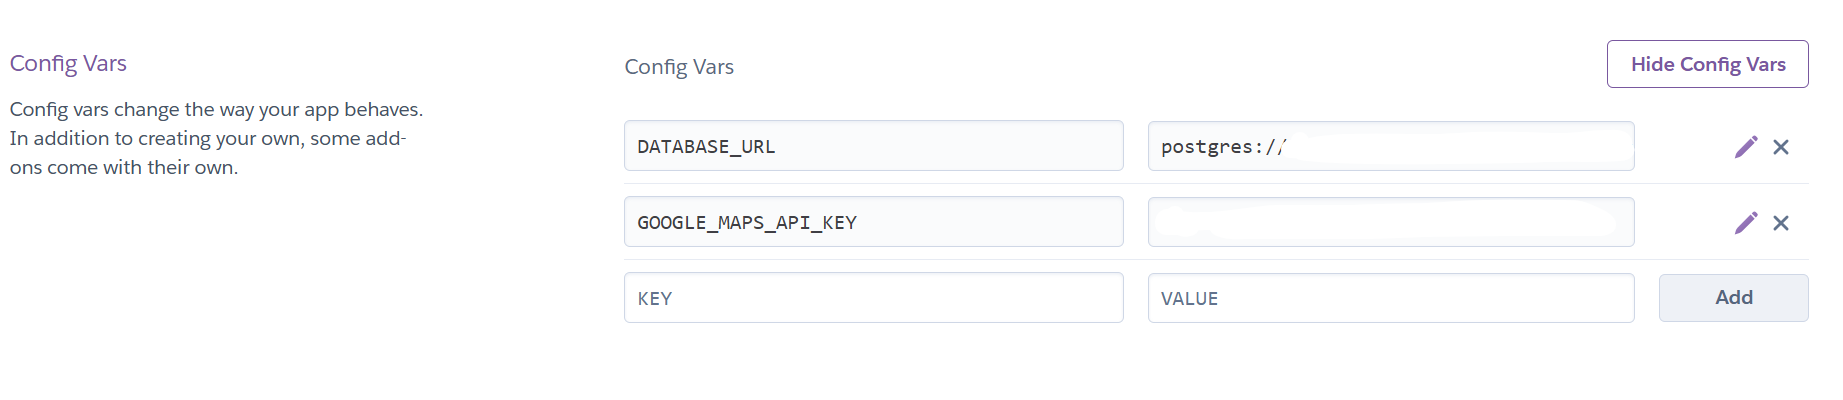
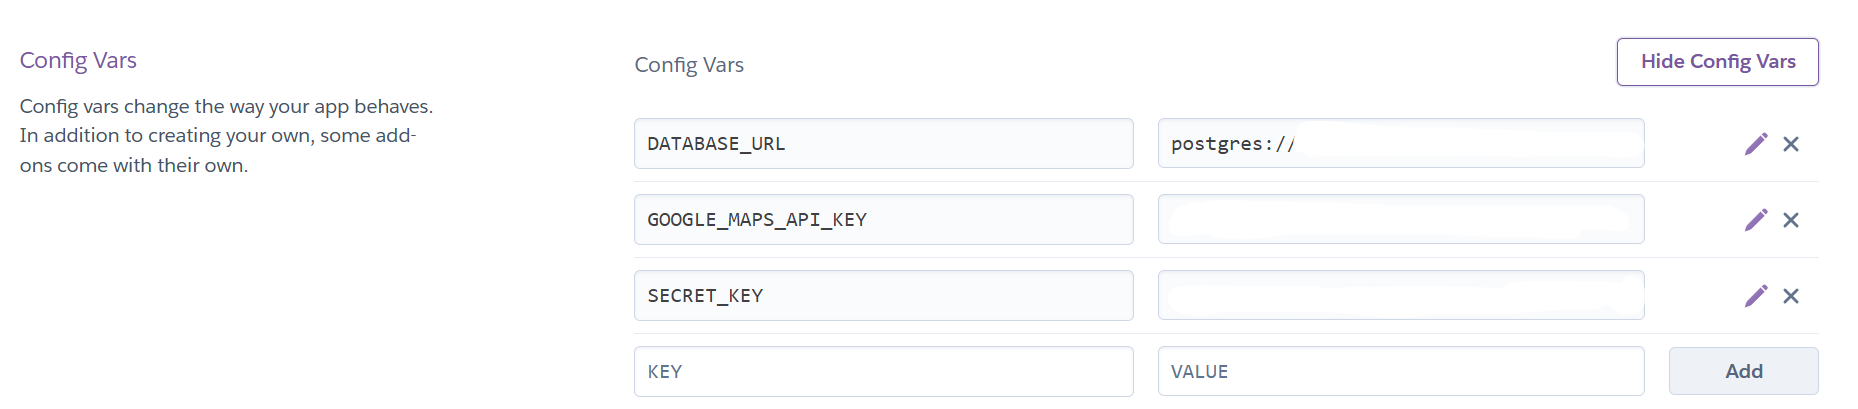
Fix mistakes in the documentation

diff --git a/README.md b/README.md
@@ -55,6 +55,15 @@ The repository can be accessed by this [link](https://github.com/BogdanovaIV/Uni
 
 ### Existing Features
 
+The system allows students to see their study calendar with tasks and marks. Students cannot add or edit any information.
+Tutors have two tabs on their dashboards with three dictionaries:
+1. **Schedule template** - This dictionary is designed for quick filling **Schedule** because schedules have the same data over the terms; it, in turn, allows tutors to save their time.
+2. **Schedule** - This dictionary is designed for storing calendars, including homework and subjects with their order numbers. It can be filled out using the **Schedule template**.
+3. **Student mark** - This dictionary is designed for storing students' marks related to **Schedule object**
+Throughout the entire adding, editing, and deleting stage the system informs the user about an execution status.
+
+![Message](documentation/features/messages.png)
+
 __Navigation Bar__
  
  - This section is on all pages.
@@ -63,6 +72,7 @@ __Navigation Bar__
  - The button has a bold font when it is according to the opened page. 
  - This section has a drop-down menu for small-size devices.
  - The navigation allows the user to easily get targets without having to revert back to the previous page via the ‘back’ button.
+  
   ![Navigation Bar (the user is not authorized)](documentation/features/navigation-bar-user-not-authorized.png) 
   ![Navigation Bar (the user is authorized)](documentation/features/navigation-bar-user-authorized.png) 
   ![Navigation Bar (small-size devices)](documentation/features/navigation-bar-small-size.png) 
@@ -70,46 +80,64 @@ __Navigation Bar__
 __The Footer__
 
  - The footer section includes links to the relevant social media sites for Medocal University. The links will open in a new tab to allow easy navigation for the user.
+  
   ![The Footer](documentation/features/footer.png)
 
  - Links have a hover effect: changing color.
+  
   ![The Footer (hover)](documentation/features/footer-hover.png)
 
 __The Home Page__
 
  - The page contains relevant detailed information about the University.
+  
   ![The Home page](documentation/features/home.png)
 
 __The Contact Page__
 
  - The page contains relevant information about the address, the phone, the e-mail, and the map with the location.
+  
   ![The Contact page](documentation/features/contact.png)
 
 __The Register Page__
 
  - The page registers a new user on the website. The user has to fill out the e-mail which is login, the first name, the last name, and the password. 
+  
   ![The Register page](documentation/features/register.png)
 
 __The Login Page__
 
  - The page allows the user to authenticate on the website. The user has to fill out the login which is the e-mail and the password. 
+  
   ![The Login page](documentation/features/login.png)
 
 __The Dashboard Page (Student)__
 
  - The page displays the weekly schedule containing subjects, homework, and marks of the user. 
  - There are three buttons: Instruction, Update, and Selection. The buttons have tooltips with short descriptions.
+ - **Tutors who have two permissions groups: Tutor and Student can open the student dashboard through the direct link.**
+  
   ![The Dashboard page for students](documentation/features/student-dashboard.png)
+
  - The "Instruction" button displays the instructions on how to work with this page to the user.
+  
   ![The instructions on how to work with this page](documentation/features/student-dashboard-instruction.png)
+
  - The "Update" button updates information on the dashboard.
  - When the user clicks on the "Selection" button, it expands and displays a selection that the user has to fill out.
+  
   ![Expanded selection](documentation/features/student-dashboard-selection.png)
+
  - the "Homework" link has a hover effect
+  
   ![Hover homework](documentation/features/student-dashboard-hover-homework.png)
+
  - When the user clicks on the "Homework" link, it expands and displays the whole text.
+  
   ![Expanded homework](documentation/features/student-dashboard-expand-homework.png)
+
  - The blue oval contains the student's mark.
+  
   ![Student's mark](documentation/features/student-dashboard-mark.png)
 
 __The Dashboard Page (Tutor)__
@@ -117,64 +145,113 @@ __The Dashboard Page (Tutor)__
  - It contains two pages: Schedule and Schedule templates.
  **Schedule templates**
  Schedule templates are used to fill out Schedules by template and save the user time. It contains the weekly schedule template with subjects and three buttons: Instruction, Update, and Selection.
- ![Schedule template](documentation/features/tutor-schedule-template.png)
-- The "Instruction" button displays the instructions on how to work with this page to the user.
+  
+  ![Schedule template](documentation/features/tutor-schedule-template.png)
+
+ - The "Instruction" button displays the instructions on how to work with this page to the user.
+
   ![The instructions on how to work with this page](documentation/features/tutor-schedule-template-instruction.png)
+
  - The "Update" button updates information on the dashboard.
  - When the user clicks on the "Selection" button, it expands and displays a selection that the user has to fill out.
+
   ![Expanded selection](documentation/features/tutor-schedule-template-selection.png)
- - The cells in the table have a hover effect
+
+ - The cells in the table have a hover effect.
+
   ![Hover effect of cells](documentation/features/tutor-schedule-template-hover.png)
- - When the user clicks on an empty cell, the system opens the "Add schedule template" page. The user has to fill in a subject and click the "Save" button to add a new item. If the user changes their decision, they can click on the "Cancel" button not to add anything. 
+
+ - When the user clicks on an empty cell, the system opens the "Add schedule template" page. The user has to fill in a subject and click the "Save" button to add a new item. If the user changes their decision, they can click on the "Cancel" button not to add anything.
+
   ![the "Add schedule template" page](documentation/features/tutor-schedule-template-add-new.png)
+
 - the "Add schedule template" page has the "Instruction" button that, when pressed, opens a instruction window.
+
   ![the "Add schedule template" page - instruction](documentation/features/tutor-schedule-template-add-new-instruction.png)
-- When the user clicks on a filled cell, the system opens the "Edit schedule template" page. The user has to change a subject and click the "Save" button to edit this item. If the user changes a decision, they can click on the "Cancel" button not to edit anything. Also, this form has the "Delete" button which deletes the current item. When the user clicks on it, the system displays a confirmation form. 
+
+- When the user clicks on a filled cell, the system opens the "Edit schedule template" page. The user has to change a subject and click the "Save" button to edit this item. If the user changes a decision, they can click on the "Cancel" button not to edit anything. Also, this form has the "Delete" button which deletes the current item. When the user clicks on it, the system displays a confirmation form.
+
   ![the "Add schedule template" page](documentation/features/tutor-schedule-template-add-new.png)
   ![Delete confirmation](documentation/features/tutor-schedule-template-delete.png)
+
 - the "Edit schedule template" page has the "Instruction" button that, when pressed, opens a instruction window.
+
   ![the "Edit schedule template" page - instruction](documentation/features/tutor-schedule-template-edit-instruction.png)
+
 **Schedule**
  Schedule contains the weekly schedule with subjects, homeworks, numbers of students' marks and four buttons: Instruction, Update, Fill and Selection.
- ![Schedule](documentation/features/tutor-schedule.png)
-- The "Instruction" button displays the instructions on how to work with this page to the user.
+
+  ![Schedule](documentation/features/tutor-schedule.png)
+
+ - The "Instruction" button displays the instructions on how to work with this page to the user.
+
   ![The instructions on how to work with this page](documentation/features/tutor-schedule-instruction.png)
+
  - The "Update" button updates information on the dashboard.
  - The "Fill" button is available only for an empty schedule. When the user clicks it, the system creates a Schedule based on the Schedule template of the particular study group.
+
   ![The instructions on how to work with this page](documentation/features/tutor-schedule-template-fill-button.png)
+
  - When the user clicks on the "Selection" button, it expands and displays a selection that the user has to fill out.
+
   ![Expanded selection](documentation/features/tutor-schedule-selection.png)
- - The cells in the table have a hover effect
+
+ - The cells in the table have a hover effect.
+
   ![Hover effect of cells](documentation/features/tutor-schedule-hover.png)
+
  - When the user clicks on an empty cell, the system opens the "Add schedule" page. The user has to fill in a subject, a homework (optional), and click the "Save" button to add a new item. If the user changes their decision, they can click on the "Cancel" button not to add anything. After saving the system opens the "Edit schedule" form which allows to fill in students' marks.
+
   ![the "Add schedule" page](documentation/features/tutor-schedule-add-new.png)
+
  - the "Add schedule" page has the "Instruction" button that, when pressed, opens a instruction window.
+
   ![the "Add schedule" page - instruction](documentation/features/tutor-schedule-add-new-instruction.png)
- - When the user clicks on a filled cell, the system opens the "Edit schedule" page. The user has to change a subject (optional), a homework (optional)  and click the "Save" button to edit this item. If the user changes a decision, they can click on the "Cancel" button not to edit anything. Also, this form has the "Delete" button which deletes the current item. When the user clicks on it, the system displays a confirmation form. 
+
+ - When the user clicks on a filled cell, the system opens the "Edit schedule" page. The user has to change a subject (optional), a homework (optional)  and click the "Save" button to edit this item. If the user changes a decision, they can click on the "Cancel" button not to edit anything. Also, this form has the "Delete" button which deletes the current item. When the user clicks on it, the system displays a confirmation form.
+
   ![the "Edit schedule" page](documentation/features/tutor-schedule-add-new.png)
   ![Delete confirmation](documentation/features/tutor-schedule-delete.png)
+
  - the "Edit schedule" page has the "Instruction" button that, when pressed, opens a instruction window.
+
   ![the "Edit schedule" page - instruction](documentation/features/tutor-schedule-edit-instruction.png)
+
  - To add, edit, or delete students' marks, the user has to open the "Edit schedule" page. It displays a students' marks table.
  - To add a new mark, the user has to click the "Add" button and fill in a student and their mark.
+
   ![the "Add mark" page](documentation/features/tutor-schedule-add-mark.png)
+
  - To edit the mark, the user has to click the "Edit" button and change fields.
+
   ![the "Edit mark" page](documentation/features/tutor-schedule-edit-mark.png)
+
  - To delete the mark, the user has to click the "Delete" button and confirm action.
+
   ![the "Edit mark" page](documentation/features/tutor-schedule-delete-mark.png)
+
 __The Admin page__
 This page allows supper-users to administrate a database and add, edit, and delete information in dictionaries which they are responsible  for.
  - **Users** contains information about all users. The supper-user can set permissions for users and ban if it is necessary (uncheck active). The system has two group permissions: Tutor and Student which give the appropriate access rights.
+
   ![the "Users" page](documentation/features/users-page.png)
   ![the "Users" page - permissions](documentation/features/users-permissions.png)
+
  - **User profiles** contains information about the student's study group and has the "checked" checkbox which allows students to see their schedules. If  the "checked" checkbox is not selected, the user sees messages that their accounts are under inspection.
+
   ![the "User profile" page](documentation/features/user-profile.png)
   ![The student's account is under inspection](documentation/features/student-under-inspection.png)
+
  - **Terms** contains information about study terms with fields: name, date from, date to, and active. If The "active" checkbox is not selected, this option is not displayed for tutors to select.
+
  ![Terms](documentation/features/terms.png)
+
  - **Study groups** contains information about study groups with fields: name and active. If The "active" checkbox is not selected, this option is not displayed for tutors to select.
+
  ![Study groups](documentation/features/study-groups.png)
+
  - **Subjects** contains information about subjects with fields: name and active. If The "active" checkbox is not selected, this option is not displayed for tutors to select.
+
  ![Subjects](documentation/features/subjects.png)
 
 ## Design
@@ -199,12 +276,12 @@ font-family: -apple-system, BlinkMacSystemFont, "Segoe UI", Roboto, "Helvetica N
 
 ### Backend
 - [Python 3.12.2](https://www.python.org/downloads/release/python-3122/): A versatile and widely-used programming language known for its readability and extensive libraries. This project is primarily built using Python due to its powerful data manipulation capabilities and ease of integration with other technologies.
-- [Django 4.x](https://www.djangoproject.com/): A high-level Python web framework that encourages rapid development and clean design. Django is used to manage the core application logic, database interactions, and routing, enabling efficient handling of complex backend functionalities.
+- [Django 4.2.16](https://www.djangoproject.com/): A high-level Python web framework that encourages rapid development and clean design. Django is used to manage the core application logic, database interactions, and routing, enabling efficient handling of complex backend functionalities.
 
 ### Frontend
-- [HTML5 & CSS3](https://developer.mozilla.org/en-US/docs/Web): Used to structure the web pages and style them to ensure a visually appealing and user-friendly interface. Semantic HTML5 tags provide a solid foundation, while CSS3 enables responsive and consistent styling.
+- [HTML & CSS](https://developer.mozilla.org/en-US/docs/Web): Used to structure the web pages and style them to ensure a visually appealing and user-friendly interface. Semantic HTML5 tags provide a solid foundation, while CSS3 enables responsive and consistent styling.
 - [JavaScript](https://developer.mozilla.org/en-US/docs/Web/JavaScript): Enables client-side scripting to add interactivity and dynamic elements on the website. JavaScript is used for real-time form validations, UI animations, and responsive features across devices.
-- [Bootstrap 5.x](https://getbootstrap.com/): A popular CSS framework that accelerates frontend development. Bootstrap provides pre-styled components and responsive grid systems, ensuring consistent and mobile-friendly UI elements.
+- [Bootstrap 5.3.3](https://getbootstrap.com/): A popular CSS framework that accelerates frontend development. Bootstrap provides pre-styled components and responsive grid systems, ensuring consistent and mobile-friendly UI elements.
 - [Google Maps JavaScript API](https://developers.google.com/maps): Google Maps is integrated to provide interactive maps that enhance the application's user experience, such as displaying the university’s location or directions. By utilizing the JavaScript API, the project can dynamically load maps and customize the map view based on user interaction and location data, making it a valuable addition for location-based features.
 
 ### Database
@@ -213,6 +290,16 @@ font-family: -apple-system, BlinkMacSystemFont, "Segoe UI", Roboto, "Helvetica N
 ### Authentication & Authorization
 - [Django-Allauth](https://django-allauth.readthedocs.io/en/latest/): A comprehensive library used for managing user authentication, registration, and account management. Django-Allauth is utilized to streamline the process of user sign-up, login, and role-based access control.
 - [Django Permissions](https://docs.djangoproject.com/en/5.1/topics/auth/default/#permissions): The project utilizes Django’s built-in permissions system to control access to specific views and actions within the application. PermissionRequiredMixin from django.contrib.auth.mixins is used to restrict access to certain views, allowing only users with the necessary permissions to proceed.
+
+### Testing
+- [Django Test Framework](https://docs.djangoproject.com/en/5.1/topics/testing/): For automated testing, python3 manage.py test is used to run tests built with Django's built-in test framework. This framework, based on Python’s unittest, helps verify that all application components work as expected and provides a solid foundation for maintaining reliable code as the project evolves.
+  - **SQLite for Testing**:  
+    By default, Django uses an SQLite database when running tests. This lightweight database ensures fast test execution and simplifies the setup process.  
+- [Jest](https://jestjs.io/): A JavaScript testing framework used to test frontend components, especially those involving DOM manipulation and user interactions. Jest is essential in ensuring that UI behaviors function as expected across various user scenarios.
+
+### Deploiment
+- [Heroku](https://dashboard.heroku.com/): A cloud platform used for deploying, managing, and scaling the application. Heroku simplifies the deployment process, enabling continuous delivery and scaling the app as needed without complex infrastructure.
+- [GitHub](https://github.com/): A version control and collaboration platform that hosts the codebase, tracks changes, and allows collaboration through pull requests and issue tracking.
 
 # Design Architecture
 This project uses **PostgreSQL** as the database backend and defines models for managing terms, study groups, schedules, and student marks in an academic environment.
@@ -225,10 +312,10 @@ This project uses **PostgreSQL** as the database backend and defines models for 
 Represents a study group.
 
 | Field Name | Data Type | Constraints | Description |
-|-|-|-|-|
-| `id` | Primary Key | Auto-increment | Unique identifier for the group.|
+| - | - | - | - |
+| `id` | Primary Key | Auto-increment | Unique identifier for the group. |
 | `name` | CharField(100) | Unique, Not Null | Name of the study group. |
-| `active` | BooleanField | Default = True | Indicates if the group is active.|
+| `active` | BooleanField | Default = True | Indicates if the group is active. |
 
 - **Meta:**
   - **Ordering:** By `name`.
@@ -239,7 +326,7 @@ Represents a study group.
 Represents an academic term.
 
 | Field Name | Data Type | Constraints | Description |
-|-|-|-|
+| - | - | - | - |
 | `id` | Primary Key | Auto-increment | Unique identifier for the term. |
 | `name` | CharField(100) | Unique, Not Null | Name of the academic term. |
 | `date_from` | DateField | Unique, Not Null | Start date of the term. |
@@ -256,10 +343,10 @@ Represents an academic term.
 Represents a subject.
 
 | Field Name | Data Type | Constraints | Description |
-|-|-|-|-|
-| `id` | Primary Key | Auto-increment | Unique identifier for the subject.|
+| - | - | - | - |
+| `id` | Primary Key | Auto-increment | Unique identifier for the subject. |
 | `name` | CharField(100) | Unique, Not Null | Name of the subject. |
-| `active` | BooleanField | Default = True | Indicates if the subject is active.|
+| `active` | BooleanField | Default = True | Indicates if the subject is active. |
 
 - **Meta:**
   - **Ordering:** By `name`.
@@ -270,8 +357,8 @@ Represents a subject.
 Represents a schedule template for a specific term and study group.
 
 | Field Name | Data Type | Constraints | Description |
-|-|-|-|
-| `id` | Primary Key | Auto-increment | Unique identifier for the schedule template.  |
+| - | - | - | - |
+| `id` | Primary Key | Auto-increment | Unique identifier for the schedule template. |
 | `term` | ForeignKey(Term) | Not Null | Associated academic term. |
 | `study_group` | ForeignKey(StudyGroup) | Not Null | Associated study group. |
 | `weekday` | IntegerField | Choices (0-6, Mon-Sun) | Day of the week for the schedule. |
@@ -288,7 +375,7 @@ Represents a schedule template for a specific term and study group.
 Represents a daily schedule for a study group.
 
 | Field Name | Data Type | Constraints | Description |
-|-|-|-|-|
+| - | - | - | - |
 | `id` | Primary Key | Auto-increment | Unique identifier for the schedule. |
 | `study_group` | ForeignKey(StudyGroup) | Not Null | Associated study group. |
 | `date` | DateField | Not Null | Date of the schedule. |
@@ -306,7 +393,7 @@ Represents a daily schedule for a study group.
 Represents a student's performance in a schedule.
 
 | Field Name | Data Type | Constraints | Description  |
-|-|-|-|-|
+| - | - | - | - |
 | `id` | Primary Key | Auto-increment | Unique identifier for the student mark. |
 | `student` | ForeignKey(User)  | Not Null | Associated student. |
 | `schedule` | ForeignKey(Schedule)| Not Null | Associated schedule. |
@@ -322,7 +409,7 @@ Represents a student's performance in a schedule.
 Enumeration for days of the week.
 
 | Value | Name |
-|-|-|
+| - | - |
 | 0 | Monday |
 | 1 | Tuesday |
 | 2 | Wednesday |
@@ -346,15 +433,6 @@ Enumeration for days of the week.
 4. **`schedule_idx`**: Optimizes queries by `schedule` in `StudentMark` for searching by the schedule.
    - **Fields**: `schedule`
 
-
-### Testing
-- [Django Test Framework](https://docs.djangoproject.com/en/5.1/topics/testing/): For automated testing, python3 manage.py test is used to run tests built with Django's built-in test framework. This framework, based on Python’s unittest, helps verify that all application components work as expected and provides a solid foundation for maintaining reliable code as the project evolves.
-- [Jest](https://jestjs.io/): A JavaScript testing framework used to test frontend components, especially those involving DOM manipulation and user interactions. Jest is essential in ensuring that UI behaviors function as expected across various user scenarios.
-
-### Testing
-- [Heroku](https://dashboard.heroku.com/): A cloud platform used for deploying, managing, and scaling the application. Heroku simplifies the deployment process, enabling continuous delivery and scaling the app as needed without complex infrastructure.
-- [GitHub](https://github.com/): A version control and collaboration platform that hosts the codebase, tracks changes, and allows collaboration through pull requests and issue tracking.
-
 ## Testing
 
 Please refer to the [TESTING.md](TESTING.md) file for all test-related documentation.
@@ -374,7 +452,7 @@ The steps to deploy are as follows:
 - 3. Set Up Environment Variables
      - Go to the "Settings" tab of your Heroku app.
      - Click "Reveal Config Vars".
-     - Add any necessary environment variables: CREDS equal JSON and PORT equal 8000
+     - Add any necessary environment variables with your values: DATABASE_URL, GOOGLE_MAPS_API_KEY, and SECRET_KEY (DJango)
       ![Heroku - config var](documentation/heroku/heroku-config-var.png)
 - 4. Buildpacks
      - Click "Add buildpack"
@@ -437,9 +515,19 @@ Clone the Repository
 
 - Send e-mail when the user creates an account, edits a password or the administrator changes information about the user.
 - Create a report of students' marks and average marks for students and tutors.
-- Add time and the ability to use an additional dictionary where the user can save events, meals, etc. in schedules 
+- Add time and the ability to use an additional dictionary where the user can save events, meals, etc. in schedules
+- Limit the ability to change past data. Create a separate permission for it.
+- Improve user-friendly experience.
 
 ## Credits 
+- [Github](https://github.com/) provided free access to a versioning system.
+- [Heroku](heroku.com) provided a service to deploy an application.
+- [Django](https://www.djangoproject.com/): was used to manage the core application logic, database interactions, and routing, enabling efficient handling of complex backend functionalities.
+- [WhiteNoise](http://whitenoise.evans.io/): Simplified static file management and improved performance by serving static files directly in production without requiring an additional server.  
+- [Gunicorn](https://gunicorn.org/): A Python WSGI HTTP server used to run the application in production, ensuring stability and reliability.  
+- [Google Maps](https://developers.google.com/maps): provided interactive maps that enhance the application's user experience, such as displaying the university’s location or directions.
+- [Bootstrap](https://getbootstrap.com/): provided pre-styled components and responsive grid systems, ensuring consistent and mobile-friendly UI elements.
+- [Pxhere](https://pxhere.com/): provided free images which helped to create awesome backgrounds.
 
 ### Content 
 
@@ -450,9 +538,3 @@ Clone the Repository
 
 - [Juliia Konovalova](https://github.com/IuliiaKonovalova/) was a great mentor who helped me to reveal my abilities and gave valuable advice.
 - [Code Institute team](https://codeinstitute.net/) supported me and provided all the information that I needed.
-- [Github](https://github.com/) provided free access to a versioning system.
-- [Heroku](heroku.com) provided a service to deploy an application.
-- [Django 4.x](https://www.djangoproject.com/): was used to manage the core application logic, database interactions, and routing, enabling efficient handling of complex backend functionalities.
-- [Google Maps](https://developers.google.com/maps): provided interactive maps that enhance the application's user experience, such as displaying the university’s location or directions.
-- [Bootstrap 5.x](https://getbootstrap.com/): provided pre-styled components and responsive grid systems, ensuring consistent and mobile-friendly UI elements.
-- [Pxhere](https://pxhere.com/): provided free images which helped to create awesome backgrounds.
